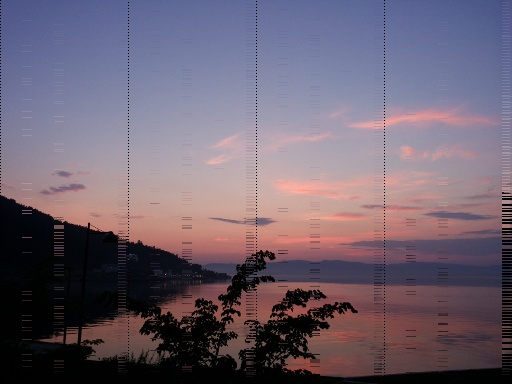
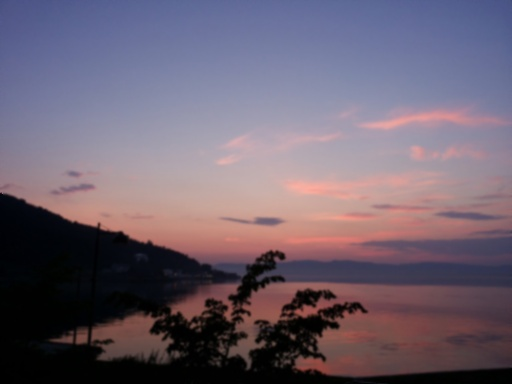
gaussian blur working

diff --git a/src/gauss.cpp b/src/gauss.cpp
@@ -49,8 +49,8 @@ cl::Image2D LoadImage(cl::Context context, char *fileName, int &width, int &heig
     cv::Mat image = cv::imread(fileName, CV_LOAD_IMAGE_COLOR);
     cv::Mat imageRGBA;
     
-    width = image.rows;
-    height = image.cols;
+    width = image.cols;
+    height = image.rows;
     
     cv::cvtColor(image, imageRGBA, CV_RGB2RGBA);
 
@@ -84,7 +84,7 @@ int main(int argc, char *argv[])
 
 //--------------------------------------------------------------------------------
 // Create a context and queue
-//--------------------------------------------------------------------------------
+//---------------------------------------------------------------------93e0d3a9ad61-----------
 
     try
     {
@@ -133,10 +133,6 @@ int main(int argc, char *argv[])
                     0,
                     NULL);
 
-        cl::size_t<3> origin;
-        origin[0] = 0; origin[1] = 0, origin[2] = 0;
-        cl::size_t<3> region;
-        region[0] = width; region[1] = height; region[2] = 1;
 
         // Create a buffer for the result
         //cl::Buffer clResult(context, CL_MEM_WRITE_ONLY, sizeof(float)*width*height);
@@ -159,8 +155,8 @@ int main(int argc, char *argv[])
 // OpenCL gaussian blur
 //--------------------------------------------------------------------------------
 
-        // cl::Program program(context, util::loadProgram("gauss.cl"), true);
         cl::Program program(context, util::loadProgram("gauss.cl"), true);
+        //cl::Program program(context, util::loadProgram("border.cl"), true);
 
         // Create the compute kernel from the program
         cl::make_kernel<cl::Image2D, cl::Buffer, cl::Image2D, int, int, int> gaussianBlur(program, "process");
@@ -176,7 +172,12 @@ int main(int argc, char *argv[])
 
         queue.finish();
 
-        float* oup = new float[width * height];
+        cl_uint8* oup = new cl_uint8[width * height];
+
+        cl::size_t<3> origin;
+        origin[0] = 0; origin[1] = 0, origin[2] = 0;
+        cl::size_t<3> region;
+        region[0] = width; region[1] = height; region[2] = 1;
 
         queue.enqueueReadImage(imageOutput, CL_TRUE, origin, region, 0, 0, oup);
 
@@ -191,12 +192,12 @@ int main(int argc, char *argv[])
         //queue.enqueueReadBuffer(clResult, CL_TRUE, 0, sizeof(float)*width*height, data)
 
 
-        cv::imwrite(filename_out,  cv::Mat(width, height, CV_8UC4, oup));
+        cv::imwrite(filename_out,  cv::Mat(height, width, CV_8UC4, oup));
 
     } catch (cl::Error err)
     {
         std::cout << "Exception\n";
-        std::cerr << "ERROR: "
+        std::cout << "ERROR: "
                   << err.what()
                   << "("
                   << err_code(err.err())
